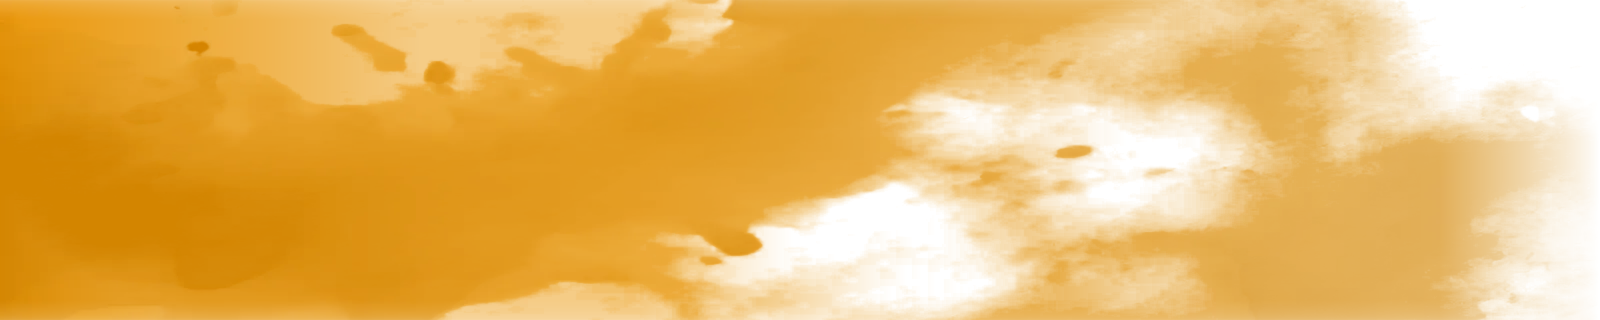
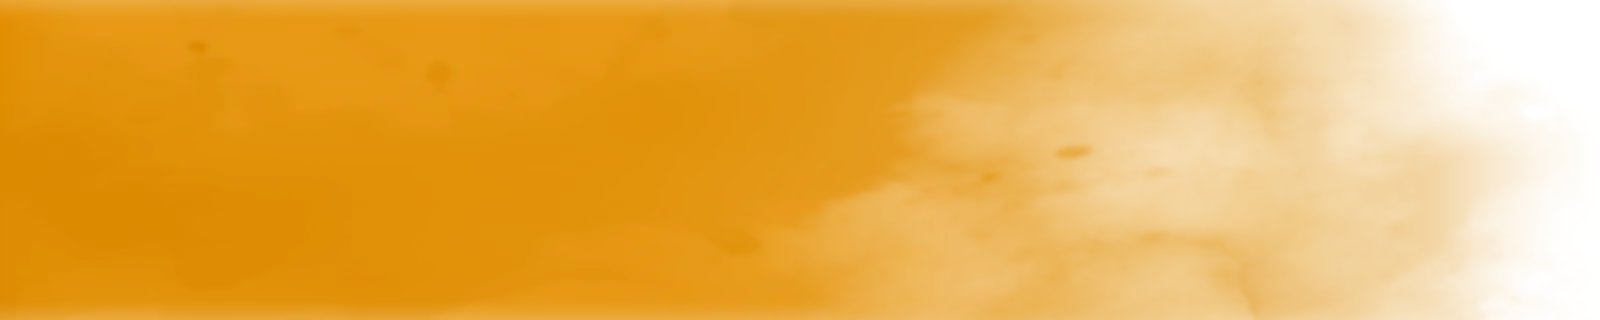
fix: Vercel framework preset, CI webhook-test race, softer highlight
- vercel.json pins the framework to Next.js (the project had "Other", so the build looked for dist/)
- The revalidate test now yields to the real event loop between fake-timer ticks; a fixed tick
  count could run out before the signature check finished on slow CI machines
- Watercolor stroke: much less light/dark variation and a smoother fade

diff --git a/src/app/api/revalidate/route.test.ts b/src/app/api/revalidate/route.test.ts
@@ -26,8 +26,13 @@ async function call(req: NextRequest) {
   const pending = POST(req).finally(() => {
     done = true;
   });
-  // Signature checking is real async crypto, so keep ticking until the handler settles.
-  for (let i = 0; i < 50 && !done; i++) await vi.advanceTimersByTimeAsync(1000);
+  // Signature checking is real async crypto that finishes off the main thread, so the 3s wait
+  // can start at any point. Tick the fake clock and yield a real macrotask (setImmediate is not
+  // faked) until the handler settles; a fixed tick count raced slow CI machines.
+  while (!done) {
+    await vi.advanceTimersByTimeAsync(1000);
+    if (!done) await new Promise((resolve) => setImmediate(resolve));
+  }
   return pending;
 }
 
